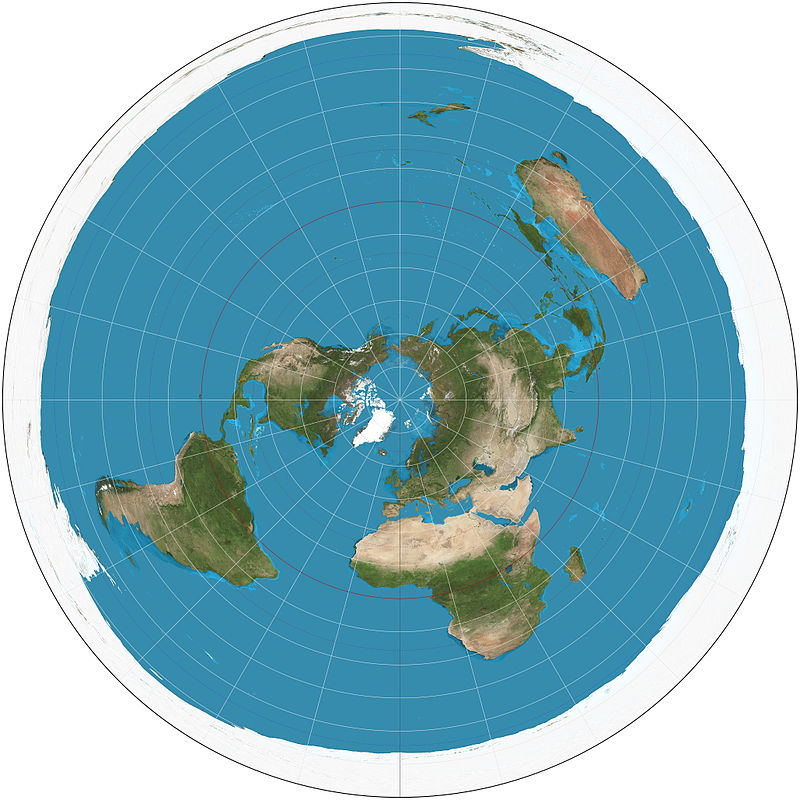
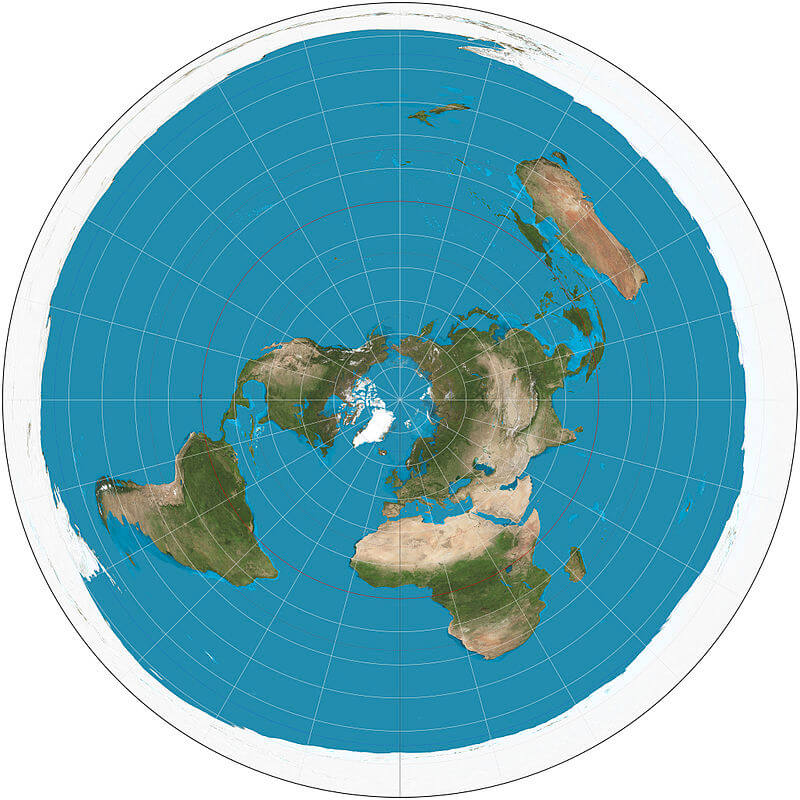
Compressed images and minor tweaks

diff --git a/src/js/combined.js b/src/js/combined.js
@@ -14081,6 +14081,24 @@ Focus.Volumes = [
     {
         number: 60,
         publications: [{
+            type: 'Geo Quiz',
+            title: 'Quiz Six: Symbols',
+            author: 'Wesley Reisser',
+            description: '',
+            date: '12/22/17',
+            thumbnail: 'publications/quizzes/six/img/Q10/Erdapfel.jpg',
+            url: 'publications/quizzes/six/index.html',
+            location: []
+        },{
+            type: 'Photo Essay',
+            title: 'Organic Agriculture, Scale, and the Production of a Region in Northeast, India',
+            author: 'David Meek',
+            description: '',
+            date: '12/08/17',
+            thumbnail: 'publications/photoessays/india/img/fig18.jpg',
+            url: 'publications/photoessays/india/index.html',
+            location: []
+        },{
             type: 'Feature Article',
             title: 'The Joola: The Geographical Dimensions of Africa\'s Greatest Shipwreck',
             author: 'Karen Barton',
@@ -14211,7 +14229,7 @@ Focus.Volumes = [
             description: '',
             date: '10/27/16',
             doi: '',
-            thumbnail: 'publications/photoessays/oaxaca/img/1a.jpg',
+            thumbnail: 'publications/photoessays/oaxaca/img/1b.jpg',
             url: 'publications/photoessays/oaxaca/index.html',
             location: []
         }, {

diff --git a/src/js/publications.js b/src/js/publications.js
@@ -3,6 +3,24 @@ Focus.Volumes = [
     {
         number: 60,
         publications: [{
+            type: 'Geo Quiz',
+            title: 'Quiz Six: Symbols',
+            author: 'Wesley Reisser',
+            description: '',
+            date: '12/22/17',
+            thumbnail: 'publications/quizzes/six/img/Q10/Erdapfel.jpg',
+            url: 'publications/quizzes/six/index.html',
+            location: []
+        },{
+            type: 'Photo Essay',
+            title: 'Organic Agriculture, Scale, and the Production of a Region in Northeast, India',
+            author: 'David Meek',
+            description: '',
+            date: '12/08/17',
+            thumbnail: 'publications/photoessays/india/img/fig18.jpg',
+            url: 'publications/photoessays/india/index.html',
+            location: []
+        },{
             type: 'Feature Article',
             title: 'The Joola: The Geographical Dimensions of Africa\'s Greatest Shipwreck',
             author: 'Karen Barton',
@@ -133,7 +151,7 @@ Focus.Volumes = [
             description: '',
             date: '10/27/16',
             doi: '',
-            thumbnail: 'publications/photoessays/oaxaca/img/1a.jpg',
+            thumbnail: 'publications/photoessays/oaxaca/img/1b.jpg',
             url: 'publications/photoessays/oaxaca/index.html',
             location: []
         }, {

diff --git a/src/publications/quizzes/six/index.html b/src/publications/quizzes/six/index.html
@@ -165,8 +165,8 @@
                         "geometry": {
                             "type": "Point",
                             "coordinates": [
-                               113.552971,  
-                               22.210928
+								101.77734374999999,
+          					  	35.31736632923788
                             ]
                         }
                     }}],
